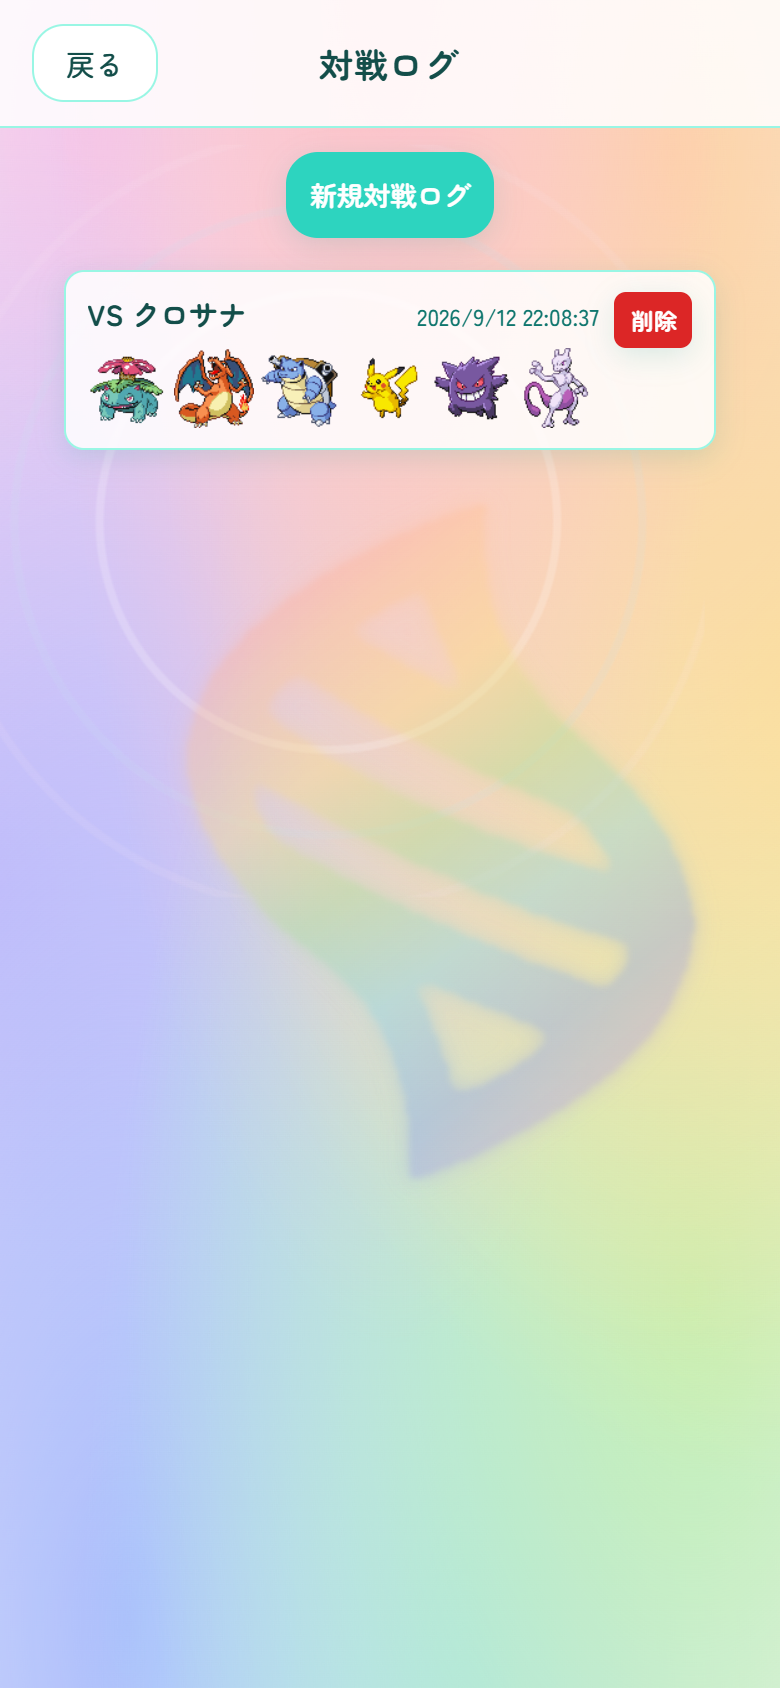
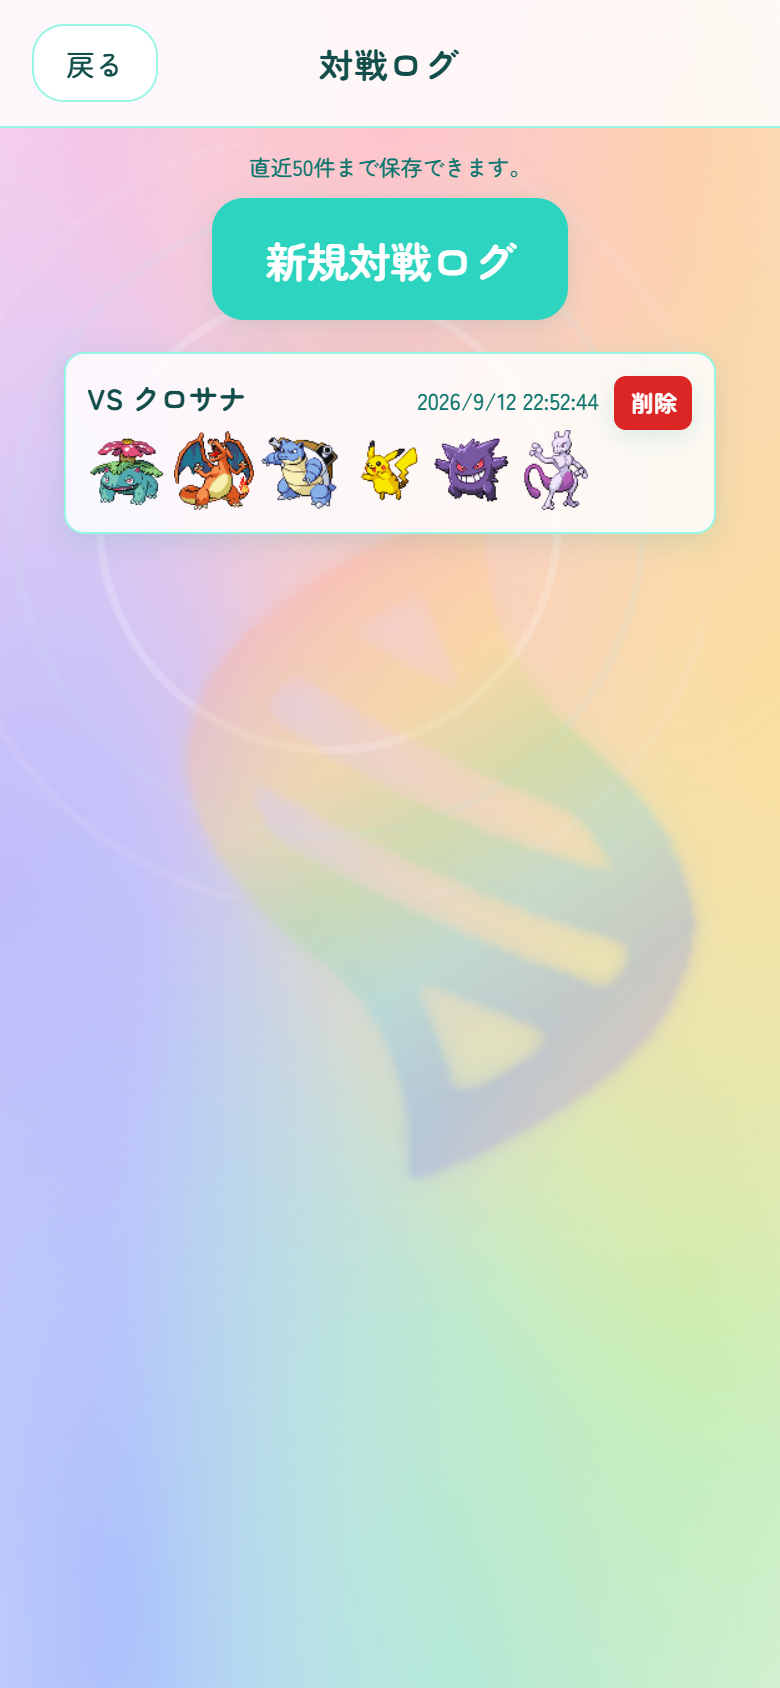
v3.0.1

Changed region(s): [[0.0615, 0.0924, 0.9231, 0.3389]]

diff --git a/css/anim.css b/css/anim.css
@@ -77,6 +77,12 @@
   animation: top-fade-up 1.1s var(--e-settle) .5s both;
 }
 
+.top-guide .section-title,
+#guide-sections .guide-phase:first-child {
+  opacity: 0;
+  animation: top-fade-up 1.1s var(--e-settle) .5s both;
+}
+
 .top-scroll-cue {
   animation: top-scroll-bounce 1.6s ease-in-out infinite;
 }
@@ -113,7 +119,9 @@ html.js-anim [data-reveal].is-inview {
 body.top-anim-done .top-hero-logo,
 body.top-anim-done .top-hero-favicon,
 body.top-anim-done .top-hero-cta,
-body.top-anim-done .top-hero-invite {
+body.top-anim-done .top-hero-invite,
+body.top-anim-done .top-guide .section-title,
+body.top-anim-done #guide-sections .guide-phase:first-child {
   opacity: 1 !important;
 }
 
@@ -122,6 +130,8 @@ body.top-anim-done .top-hero-invite {
   .top-hero-favicon,
   .top-hero-cta,
   .top-hero-invite,
+  .top-guide .section-title,
+  #guide-sections .guide-phase:first-child,
   .top-scroll-cue,
   .top-hero-logo-wrap::after,
   #app.top-impact-shake,

diff --git a/css/style.css b/css/style.css
@@ -1803,7 +1803,18 @@ a.btn-role {
   max-width: 520px;
   margin: 0 auto;
 }
-.log-list-actions button { width: 100%; padding: .75rem; }
+.log-list-note {
+  margin: 0 0 .5rem;
+  font-size: .68rem;
+  line-height: 1.4;
+  color: var(--text-muted);
+  text-align: center;
+}
+#btn-new-log {
+  width: 100%;
+  padding: calc(.75rem * 1.3) calc(1em * 1.3);
+  font-size: 1.3em;
+}
 
 .list-empty {
   text-align: center;

diff --git a/index.html b/index.html
@@ -222,6 +222,7 @@
         <span class="page-header-spacer"></span>
       </header>
       <div class="log-list-actions">
+        <p class="log-list-note">直近50件まで保存できます。</p>
         <button type="button" class="btn-role btn-primary" id="btn-new-log">新規対戦ログ</button>
       </div>
       <div class="data-slot-list" id="log-list"></div>
